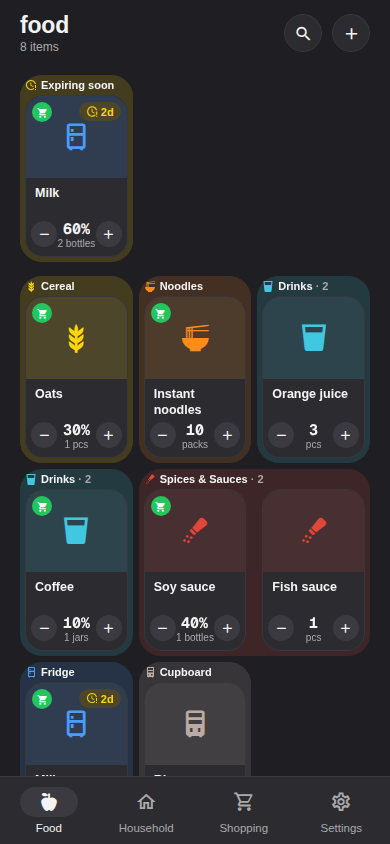
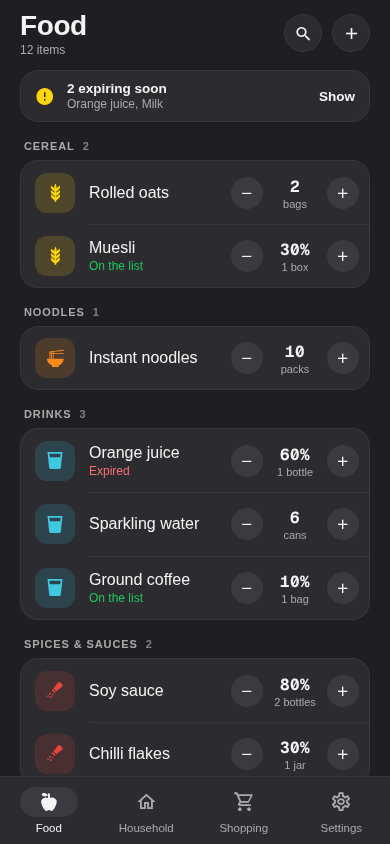
README: the list layout, with new screenshots

diff --git a/README.md b/README.md
@@ -33,7 +33,7 @@ and update itself from it. Your data goes nowhere else.
 - **Count part-used items** — for things like a bottle of oil, track how much of
   the open one is left instead of pretending it is full or empty.
 - **Expiry dates** — give an item an optional expiry date. Anything expired or
-  due within four days is flagged on its card and counted in a banner at the top
+  due within four days is flagged on its row and counted in a banner at the top
   of its tab, and a notification tells you four days ahead and on the day. When
   you buy more of something that had a date, the app asks for the new one.
 - **Shopping list** — type anything you need into the box on the Shopping tab,
@@ -48,9 +48,11 @@ and update itself from it. Your data goes nowhere else.
   "Ran out", one tap from going back on it. Deleting, finishing a unit and taking
   something off the list all show an undo button for a few seconds, and a form
   with unsaved changes asks before it closes.
-- **Quick to browse** — items sit three to a row on a panel in their category's
-  colour, and a card only spends room on a photo if there is one. Search looks
-  through both tabs, including things that have run out.
+- **Quick to browse** — each tab is a plain list, one card per category and one
+  row per item: its picture, its name, and minus and plus around how much is
+  left. A line under the name appears only when something needs noticing:
+  expired, expiring soon or on the list. Search looks through both tabs,
+  including things that have run out.
 - **Light and dark** — soft greys rather than stark white or black, in the same
   look as the other xrn apps. Follows your system theme, or pick one in
   Settings.
@@ -59,12 +61,8 @@ and update itself from it. Your data goes nowhere else.
   few seconds after each change. A new phone, or the same phone after a
   reinstall, restores everything from it. The server also hands out new builds
   of the app: they download on Wi-Fi, and install after asking.
-- **Cards in the colour of the pack** — each item's card takes its colour from
-  its photo, so the page looks like your own shelves. Anything counted in % shows
-  what's left as a line across the photo.
 - **The same app on your laptop** — the server also serves the app as a web page,
-  laid out for a big screen: the same cards in a wider grid, the shopping list
-  always beside them, and a box to add things by typing a name and pressing Enter.
+  laid out for a big screen: the same list, the shopping list always beside it, and a box to add things by typing a name and pressing Enter.
   Open it in a browser and sign in, and it stays in step with the phone: changes on
   either side show up on the other while the app is open, and the two are merged
   rather than one replacing the other.
@@ -204,19 +202,20 @@ connection. There's no camera, reminders or backup files, since the server keeps
 copies. It keeps a list of its own in the browser and merges it with the server's the
 same way the phone does.
 
-![The laptop version, with an item open beside the cards](docs/screenshots/laptop-light.png)
+![The laptop version, with an item open beside the list](docs/screenshots/laptop-light.png)
 
 In a window at least 1000 pixels wide, the shopping list stays open beside your items
-as a basket, and clicking a card opens that item in its place. Point at a card for a
-cart button that puts it on the list. The box at the top adds things: type a name and
-press Enter, and the cursor stays there for the next one. A name you already have adds
-to that item instead of making a second one. **More…** opens the full form, for a
-photo or an expiry date. In a narrower window you get the phone's layout.
+as a basket, and clicking an item opens it in its place. Typing the name of something
+you have into the basket's box puts it on the list. The box at the top adds things:
+type a name and press Enter, and the cursor stays there for the next one. A name you
+already have adds to that item instead of making a second one. **More…** opens the
+full form, for a photo or an expiry date. In a narrower window you get the phone's
+layout.
 
 | Key | What it does |
 | --- | --- |
 | `/` | Go to the box that adds things |
-| `Esc` | Close the item beside the cards |
+| `Esc` | Close the item beside the list |
 
 ## How the counting works
 
@@ -237,7 +236,7 @@ to the stock that is gone. The app remembers that the item has one and asks for
 the new date when you buy more. Adding more of something you still have keeps the
 earlier of the two dates.
 
-On a card, minus and plus move the open unit by 10% for an item counted in %.
+In the list, minus and plus move the open unit by 10% for an item counted in %.
 Hold plus to add a whole new one. The item's page has "Bought more" for any
 amount.
 
@@ -266,7 +265,7 @@ src/
                         server, Your categories, Add, Edit, Item detail, and
                         the page for unreadable data
   components/           the shared building blocks (ui.js), the item form,
-                        item cards, category grid, stepper, toast, badges
+                        item rows, stepper, toast, badges
   desktop/              the page the laptop version puts round the app's screens
   context/              inventory state, theme, reminders, home server sync
                         and updates
